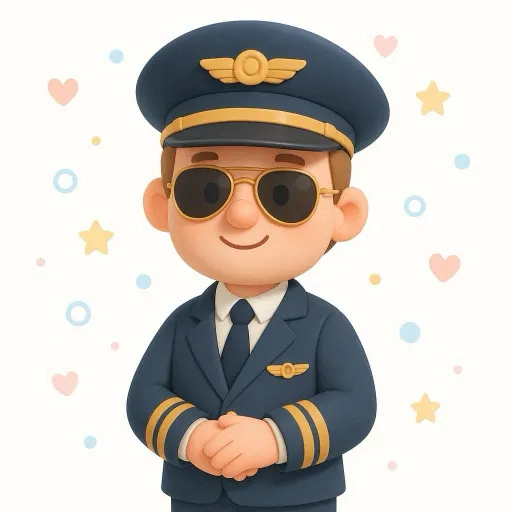
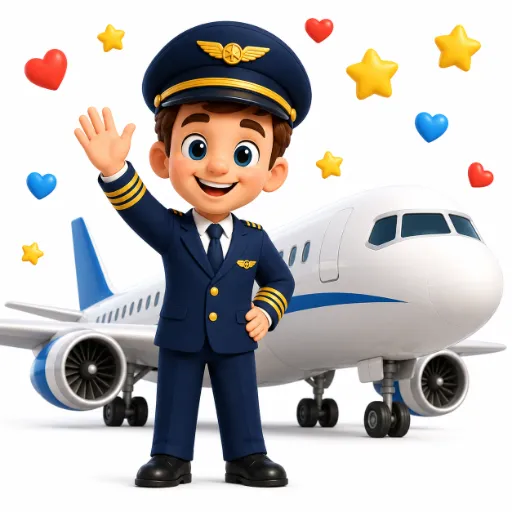
Pilot slika sa avionom u pozadini (dete prepoznaje zanimanje) + SW kes v6

diff --git a/public/sw.js b/public/sw.js
@@ -1,4 +1,4 @@
-const CACHE_NAME = "catala-v5";
+const CACHE_NAME = "catala-v6";
 const STATIC_ASSETS = [
   "/",
   "/manifest.json",